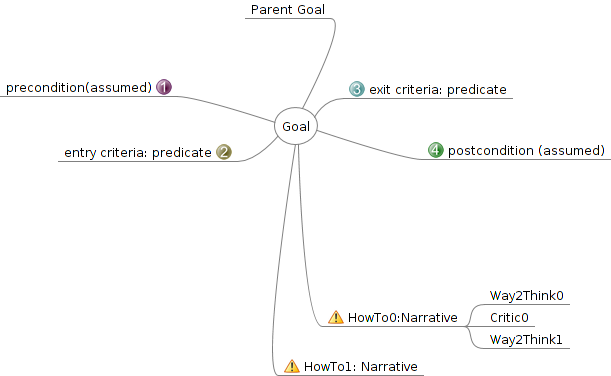
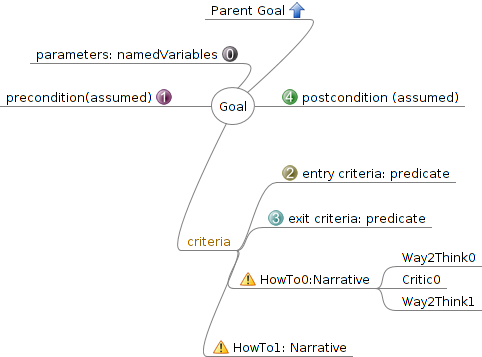
Added criteria groups.

diff --git a/doc/design-specification/mm/goal.mm b/doc/design-specification/mm/goal.mm
@@ -1,27 +1,34 @@
 <map version="0.9.0">
 <!-- To view this file, download free mind mapping software FreeMind from http://freemind.sourceforge.net -->
-<node CREATED="1360782280641" ID="ID_939508481" MODIFIED="1360783155447" TEXT="Goal">
-<node CREATED="1360782655739" HGAP="25" ID="ID_1579518363" MODIFIED="1360784155591" POSITION="right" TEXT="exit criteria: predicate" VSHIFT="9">
-<icon BUILTIN="full-3"/>
+<node CREATED="1360782280641" ID="ID_939508481" MODIFIED="1362128210801" TEXT="Goal">
+<node CREATED="1360782667365" HGAP="-100" ID="ID_831973499" MODIFIED="1362133866400" POSITION="left" TEXT="Parent Goal" VSHIFT="-21">
+<icon BUILTIN="up"/>
 </node>
-<node CREATED="1360782667365" HGAP="-57" ID="ID_831973499" MODIFIED="1360783208791" POSITION="left" TEXT="Parent Goal" VSHIFT="-55"/>
-<node CREATED="1360782679368" HGAP="104" ID="ID_1109822751" MODIFIED="1360784157919" POSITION="right" TEXT="postcondition (assumed)" VSHIFT="38">
+<node CREATED="1360782679368" HGAP="21" ID="ID_1109822751" MODIFIED="1362137542706" POSITION="right" TEXT="postcondition (assumed)" VSHIFT="71">
 <icon BUILTIN="full-4"/>
 </node>
-<node CREATED="1360782840335" HGAP="96" ID="ID_996270101" MODIFIED="1360784149904" POSITION="left" TEXT="precondition(assumed)" VSHIFT="-39">
+<node CREATED="1360782840335" HGAP="-33" ID="ID_996270101" MODIFIED="1362137545722" POSITION="left" TEXT="parameters: namedVariables" VSHIFT="-20">
+<icon BUILTIN="full-0"/>
+</node>
+<node CREATED="1360783156474" HGAP="33" ID="ID_568304879" MODIFIED="1362137538817" POSITION="left" TEXT="precondition(assumed)" VSHIFT="-32">
 <icon BUILTIN="full-1"/>
 </node>
-<node CREATED="1360782896488" HGAP="4" ID="ID_742355349" MODIFIED="1360784344545" POSITION="right" TEXT="HowTo0:Narrative" VSHIFT="123">
+<node COLOR="#996600" CREATED="1362136010103" HGAP="-74" ID="ID_104727022" MODIFIED="1362137525972" POSITION="right" TEXT="Criteria" VSHIFT="53">
+<node CREATED="1362128211618" HGAP="39" ID="ID_1812695249" MODIFIED="1362133949224" TEXT="entry criteria: predicate" VSHIFT="-13">
+<icon BUILTIN="full-2"/>
+</node>
+<node CREATED="1360782655739" HGAP="25" ID="ID_1579518363" MODIFIED="1360784155591" TEXT="exit criteria: predicate" VSHIFT="9">
+<icon BUILTIN="full-3"/>
+</node>
+<node CREATED="1360782896488" HGAP="-3" ID="ID_742355349" MODIFIED="1362137520151" TEXT="HowTo0:Narrative" VSHIFT="17">
 <icon BUILTIN="messagebox_warning"/>
 <node CREATED="1360782959872" ID="ID_500320239" MODIFIED="1360783017672" TEXT="Way2Think0"/>
 <node CREATED="1360783023031" ID="ID_1210423070" MODIFIED="1360783028119" TEXT="Critic0"/>
 <node CREATED="1360783028881" ID="ID_261353401" MODIFIED="1360783034238" TEXT="Way2Think1"/>
 </node>
-<node CREATED="1360782920116" HGAP="-40" ID="ID_937077741" MODIFIED="1360784320175" POSITION="right" TEXT="HowTo1: Narrative" VSHIFT="4">
+<node CREATED="1360782920116" HGAP="-30" ID="ID_937077741" MODIFIED="1362137442986" TEXT="HowTo1: Narrative" VSHIFT="23">
 <icon BUILTIN="messagebox_warning"/>
 </node>
-<node CREATED="1360783156474" HGAP="36" ID="ID_568304879" MODIFIED="1360784152695" POSITION="left" TEXT="entry criteria: predicate" VSHIFT="3">
-<icon BUILTIN="full-2"/>
 </node>
 </node>
 </map>
